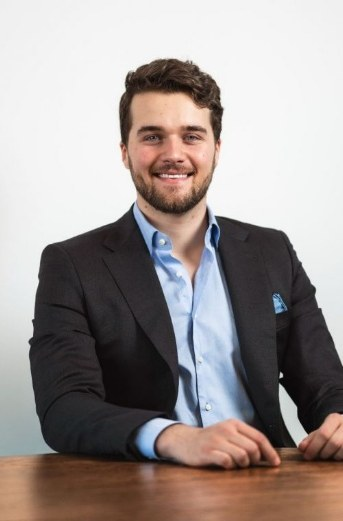
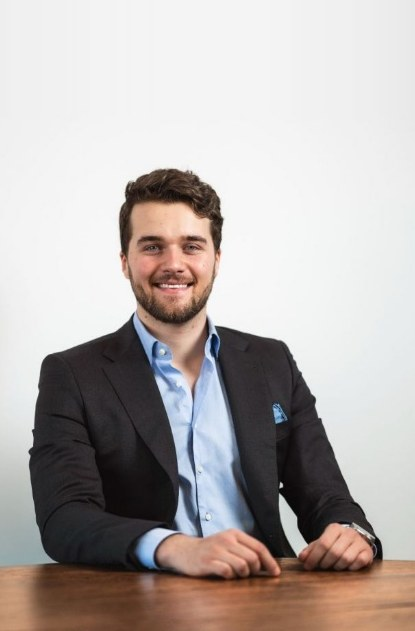
Titelbild mit Hand und gleichem Rand, SyEnergy-Foto und Studiengang in Laufbahn
Claude-Session: https://claude.ai/code/session_011hthjTbG7UK3y2j2H5ntXq

diff --git a/_seiten/laufbahn.md b/_seiten/laufbahn.md
@@ -17,8 +17,8 @@ abschnitte:
       Im September 2024 startete ich als Projektleiter Energiesysteme bei der SyEnergy AG. Seit Juni 2025 leite ich dort die Abteilung E-Management, die ich mit aufbauen durfte. Seit März 2023 bin ich zudem Geschäftsleiter der MMedics GmbH.
 
       Seit 2016 beschäftige ich mich intensiv mit Kryptowährungen und Blockchain-Technologie und habe mir auf diesem Gebiet fundiertes Know-how angeeignet.
-    bild: /img/studiengang.jpg
-    bild_text: Mein Studiengang (HLKS 21 Personen und GEE 8 Personen)
+    bild: /img/portrait.jpg
+    bild_text: Bei der SyEnergy AG
   - titel: Beruflicher Ablauf
     hintergrund: grau
     ablauf:
@@ -83,4 +83,6 @@ abschnitte:
         text: Sekundarschule, Horw
       - zeit: "08.2005 – 06.2011"
         text: Primarschule, Luzern und Kastanienbaum
+    bild: /img/studiengang.jpg
+    bild_text: Mein Studiengang (HLKS 21 Personen und GEE 8 Personen)
 ---
